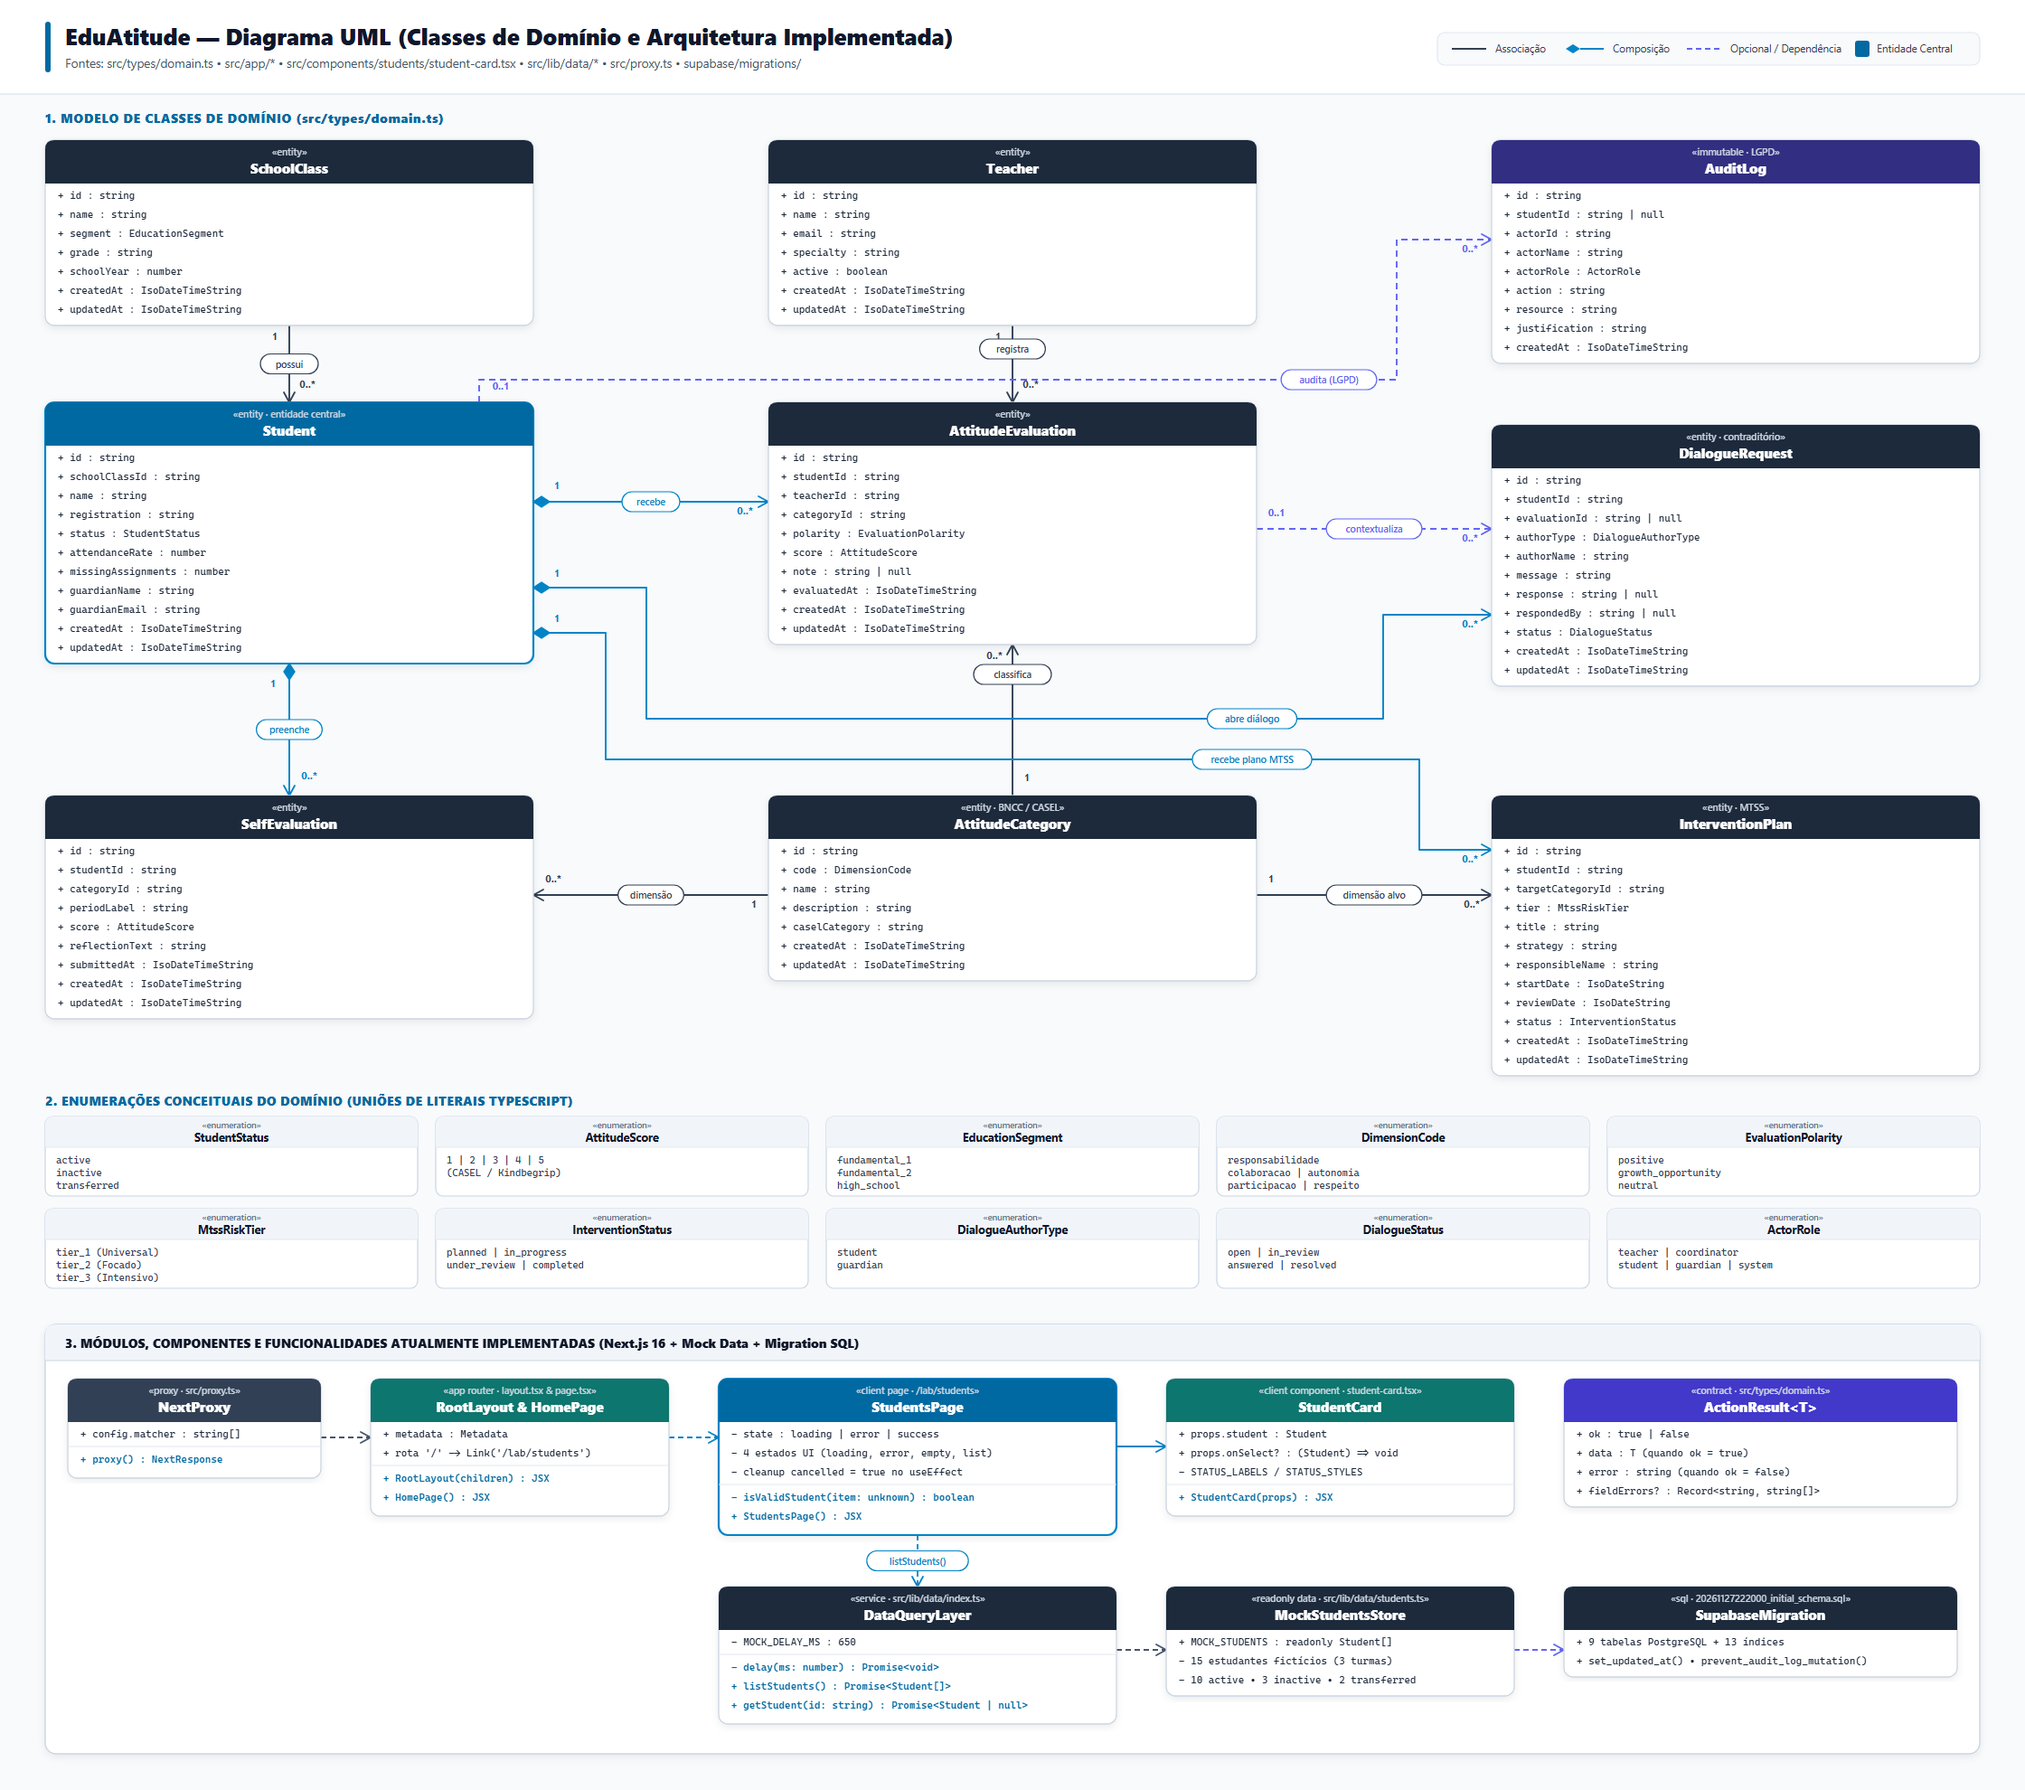
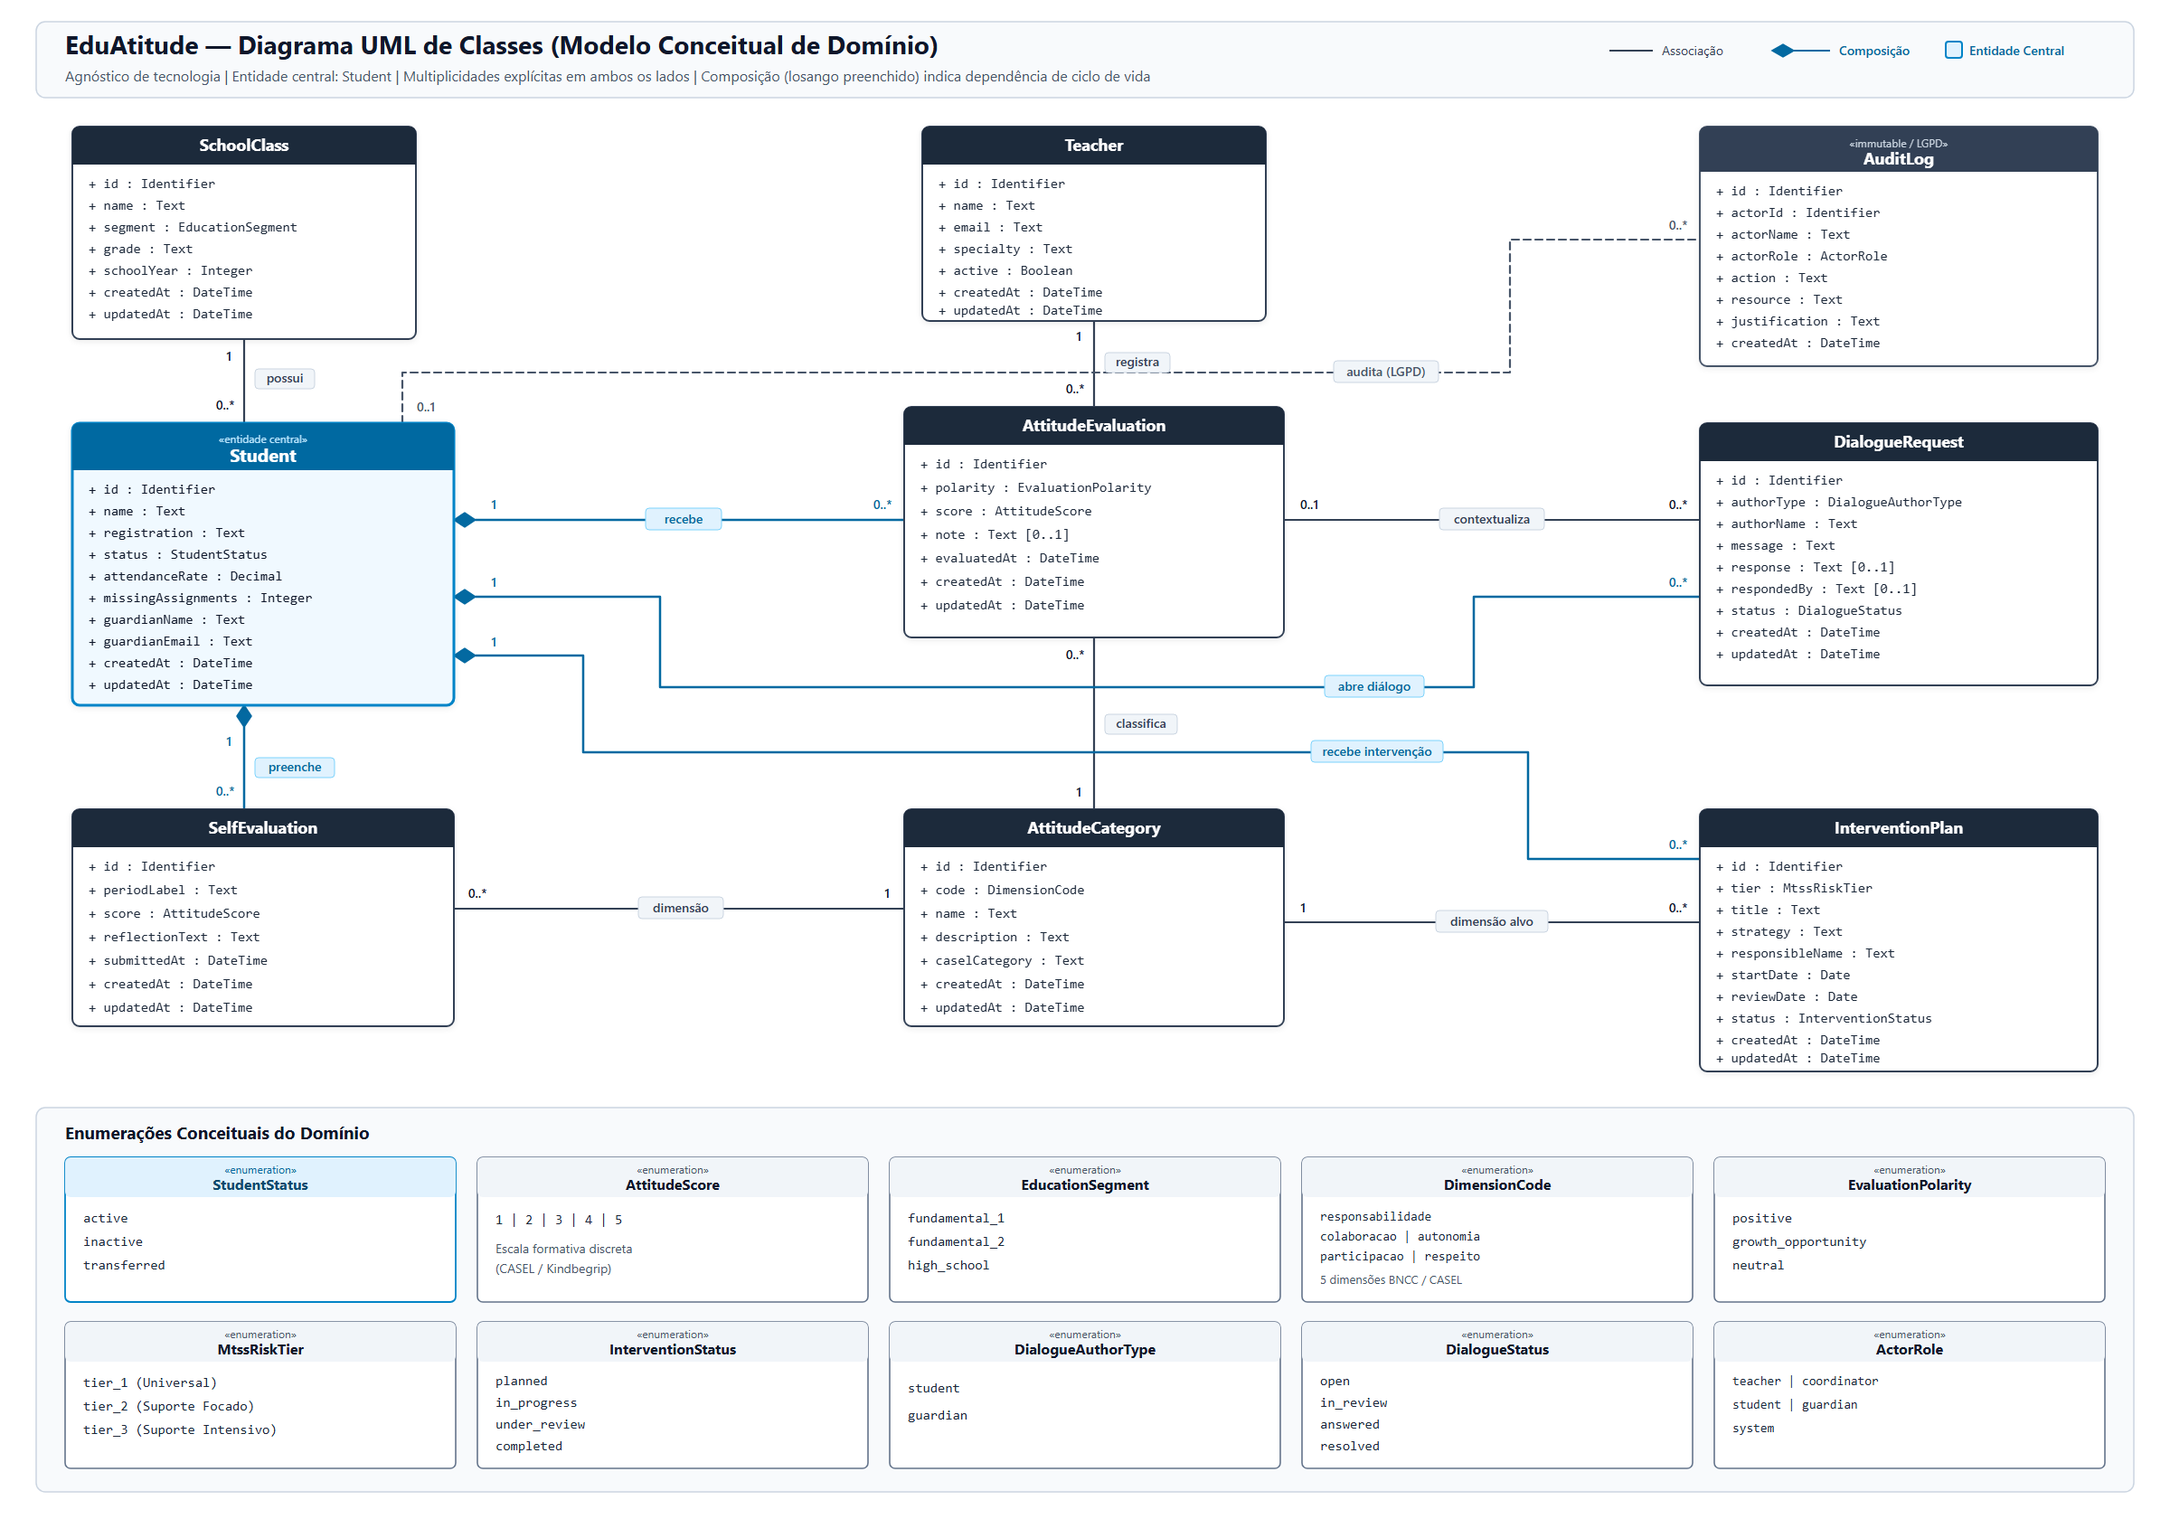
fix(marco-1): restaura uml conceitual, adiciona public/der.png e corrige links da documentacao

diff --git a/README.md b/README.md
@@ -59,9 +59,15 @@ A organização segue a estrutura padronizada no Capítulo 2 (seção 2.4.8), ad
 SistemaWebAvaliacaoAtitudinal_[Marco 1]/
 ├── .github/
 │   └── workflows/                             # Pipelines de CI/CD (Cap. 16 e 17)
+├── docs/
+│   ├── diagrama_uml.md                        # Documentação complementar UML (classes, arquitetura, sequência e estados)
+│   └── diagrama_mer.md                        # Documentação complementar MER (Mermaid, restrições, índices e triggers)
 ├── public/
 │   ├── uml.png                                # Artefato 1: Diagrama UML de classes conceitual (agnóstico de tecnologia)
-│   └── der.png                                # Artefato 2: Diagrama Entidade-Relacionamento traduzido para PostgreSQL
+│   ├── der.png                                # Artefato 2: Diagrama Entidade-Relacionamento traduzido para PostgreSQL
+│   ├── mer.png                                # Cópia complementar do MER PostgreSQL
+│   ├── mer.svg                                # Versão vetorial complementar do MER
+│   └── uml.svg                                # Versão vetorial complementar de arquitetura UML
 ├── src/
 │   ├── app/
 │   │   ├── lab/
@@ -92,7 +98,8 @@ SistemaWebAvaliacaoAtitudinal_[Marco 1]/
 │   │   └── domain.ts                          # Artefato 3: Fonte da verdade dos tipos de domínio e ActionResult<T>
 │   └── proxy.ts                               # Proxy do Next.js 16 (Cap. 6; autenticação no Cap. 10)
 ├── supabase/
-│   ├── migrations/                            # Migrações SQL versionadas (Cap. 8)
+│   ├── migrations/
+│   │   └── 20261127222000_initial_schema.sql  # Migration SQL inicial (9 tabelas, 13 índices e triggers LGPD)
 │   ├── seeds/                                 # Scripts de carga inicial de demonstração (Cap. 8)
 │   └── tests/
 │       └── rls/                               # Scripts de verificação de políticas RLS (Cap. 11)
@@ -134,7 +141,7 @@ SistemaWebAvaliacaoAtitudinal_[Marco 1]/
 - **Chaves primárias e timestamps:** todas as 9 tabelas utilizam `id UUID PRIMARY KEY DEFAULT gen_random_uuid()` (evitando `SERIAL`, que vaza ordem de criação) e `created_at TIMESTAMPTZ NOT NULL DEFAULT now()`. Todas as tabelas mutáveis possuem `updated_at TIMESTAMPTZ NOT NULL DEFAULT now()`; `audit_logs` omite `updated_at` intencionalmente por ser uma trilha imutável de auditoria LGPD.
 - **Tipos seguros:** `TIMESTAMPTZ` (nunca `TIMESTAMP` sem fuso) para instantes exatos; `INTEGER` com `CHECK (score BETWEEN 1 AND 5)` para notas e `NUMERIC(5,2)` para `attendance_rate` (nunca `FLOAT`, evitando imprecisão binária).
 - **Integridade referencial e restrições:** `students.registration`, `teachers.email` e `attitude_categories.code` recebem restrição `UNIQUE`; `self_evaluations` possui unicidade composta em `(student_id, category_id, period_label)`; todas as enumerações têm restrição `CHECK`; FKs de composição ligadas a `students` usam `ON DELETE CASCADE`, enquanto referências opcionais (`dialogue_requests.evaluation_id`, `audit_logs.student_id`) usam `ON DELETE SET NULL` e referências estruturais usam `ON DELETE RESTRICT`.
-- **Índices:** criados explicitamente nas chaves estrangeiras e filtros de consulta mais frequentes (`students.school_class_id`, `students.status`, `attitude_evaluations.student_id`, `teacher_id`, `category_id`, `evaluated_at`, `self_evaluations.student_id`, `intervention_plans(student_id, tier)`, `dialogue_requests(student_id, status)` e `audit_logs(student_id, created_at)`).
+- **Índices e triggers (13 índices):** criados explicitamente nas chaves estrangeiras e filtros de consulta mais frequentes (`students.school_class_id`, `students.status`, `attitude_evaluations.student_id`, `teacher_id`, `category_id`, `evaluated_at`, `self_evaluations.student_id`, `self_evaluations.category_id`, `intervention_plans(student_id, tier)`, `intervention_plans.target_category_id`, `dialogue_requests(student_id, status)`, `dialogue_requests.evaluation_id` e `audit_logs(student_id, created_at)`), acompanhados pelos triggers `set_updated_at()` nas 8 tabelas mutáveis e `prevent_audit_log_mutation()` na trilha imutável LGPD (`supabase/migrations/20261127222000_initial_schema.sql`).
 
 ---
 

diff --git a/docs/diagrama_uml.md b/docs/diagrama_uml.md
@@ -4,16 +4,16 @@ Documentação dos diagramas **UML** (Classes de Domínio, Enumerações, Arquit
 
 > [!NOTE]
 > **Fontes de verdade inspecionadas:**
-> - Tipos de domínio: [domain.ts](file:///c:/Users/claud/Desktop/projeto/src/types/domain.ts)
-> - Camada mock e consultas: [students.ts](file:///c:/Users/claud/Desktop/projeto/src/lib/data/students.ts), [index.ts](file:///c:/Users/claud/Desktop/projeto/src/lib/data/index.ts)
-> - Interface e roteamento: [layout.tsx](file:///c:/Users/claud/Desktop/projeto/src/app/layout.tsx), [page.tsx](file:///c:/Users/claud/Desktop/projeto/src/app/page.tsx), [students/page.tsx](file:///c:/Users/claud/Desktop/projeto/src/app/lab/students/page.tsx), [student-card.tsx](file:///c:/Users/claud/Desktop/projeto/src/components/students/student-card.tsx), [proxy.ts](file:///c:/Users/claud/Desktop/projeto/src/proxy.ts)
-> - Esquema SQL: [20261127222000_initial_schema.sql](file:///c:/Users/claud/Desktop/projeto/supabase/migrations/20261127222000_initial_schema.sql)
+> - Tipos de domínio: [domain.ts](../src/types/domain.ts)
+> - Camada mock e consultas: [students.ts](../src/lib/data/students.ts), [index.ts](../src/lib/data/index.ts)
+> - Interface e roteamento: [layout.tsx](../src/app/layout.tsx), [page.tsx](../src/app/page.tsx), [students/page.tsx](../src/app/lab/students/page.tsx), [student-card.tsx](../src/components/students/student-card.tsx), [proxy.ts](../src/proxy.ts)
+> - Esquema SQL: [20261127222000_initial_schema.sql](../supabase/migrations/20261127222000_initial_schema.sql)
 
 ---
 
 ## 1. UML — Diagrama de Classes de Domínio
 
-Mapeamento fiel das 9 entidades, 10 enumerações (uniões de literais) e do contrato `ActionResult<T>` definidos em [domain.ts](file:///c:/Users/claud/Desktop/projeto/src/types/domain.ts).
+Mapeamento fiel das 9 entidades, 10 enumerações (uniões de literais) e do contrato `ActionResult<T>` definidos em [domain.ts](../src/types/domain.ts).
 
 ```mermaid
 classDiagram
@@ -387,7 +387,7 @@ sequenceDiagram
 
 ## 4. UML — Diagrama de Estados da Interface (`StudentsPage`)
 
-Representa a máquina de estados discriminada (`StudentsLoadState`) e o estado vazio derivado implementados em [students/page.tsx](file:///c:/Users/claud/Desktop/projeto/src/app/lab/students/page.tsx).
+Representa a máquina de estados discriminada (`StudentsLoadState`) e o estado vazio derivado implementados em [students/page.tsx](../src/app/lab/students/page.tsx).
 
 ```mermaid
 stateDiagram-v2

diff --git a/docs/diagrama_mer.md b/docs/diagrama_mer.md
@@ -4,8 +4,8 @@ Documentação do **MER (Modelo Entidade-Relacionamento)** do sistema EduAtitude
 
 > [!NOTE]
 > **Fontes de verdade inspecionadas:**
-> - Esquema SQL: [20261127222000_initial_schema.sql](file:///c:/Users/claud/Desktop/projeto/supabase/migrations/20261127222000_initial_schema.sql)
-> - Tipos de domínio: [domain.ts](file:///c:/Users/claud/Desktop/projeto/src/types/domain.ts)
+> - Esquema SQL: [20261127222000_initial_schema.sql](../supabase/migrations/20261127222000_initial_schema.sql)
+> - Tipos de domínio: [domain.ts](../src/types/domain.ts)
 
 ---
 
